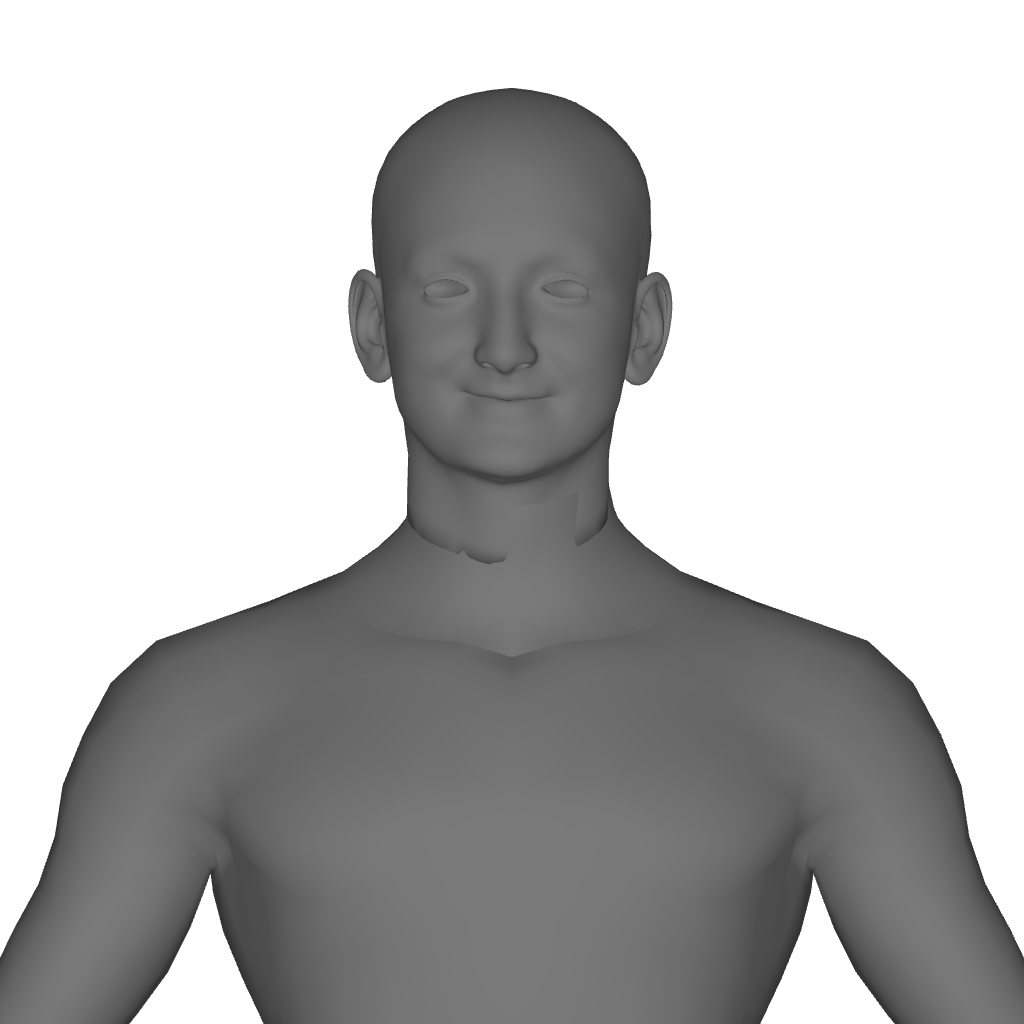
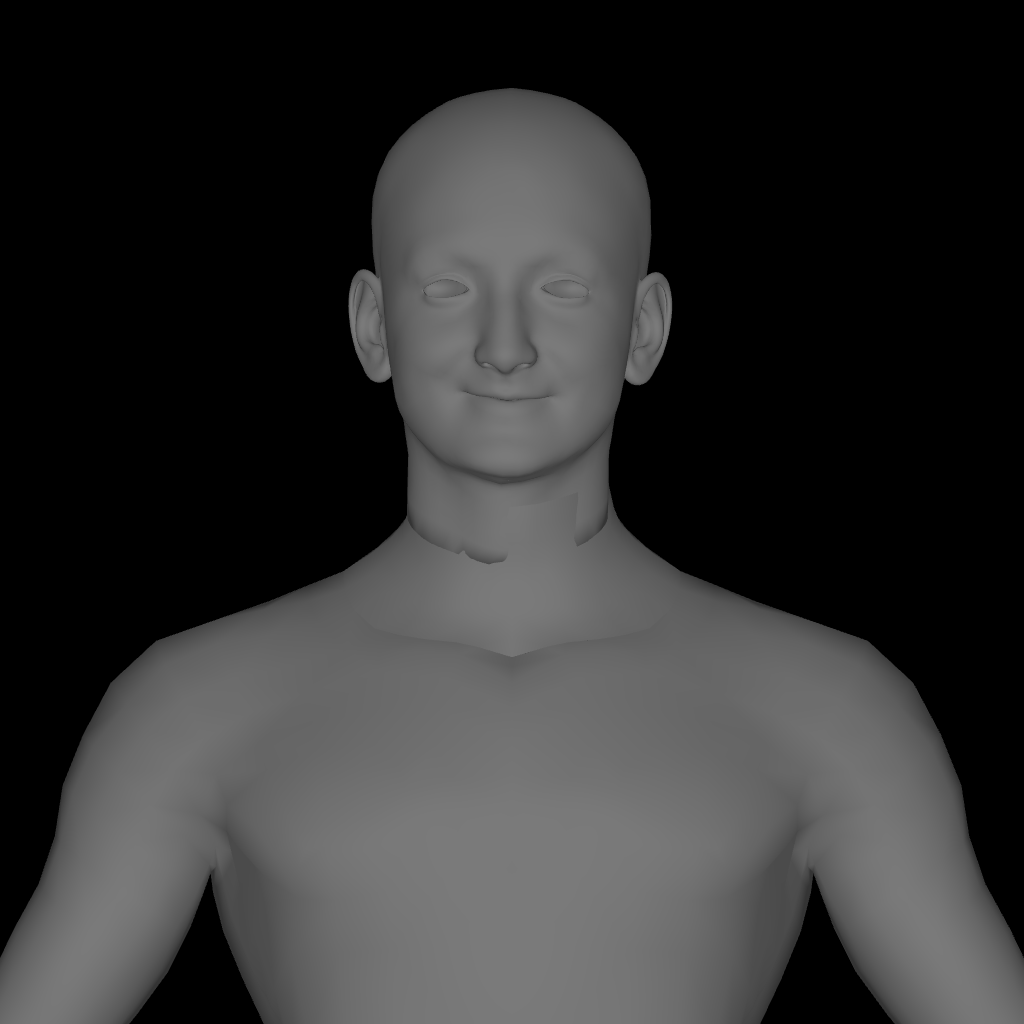
修改flip bug

diff --git a/Code/Tools/utils.py b/Code/Tools/utils.py
@@ -82,7 +82,7 @@ def get_image(d,flip=False,image_size=256,mode='Ori_conf',blur=False,no_use_dept
 
     if mode=='Ori':#方向图，只要1,2通道
         if blur:
-            ori = os.path.join(d, 'Ori.png').replace("\\", "/")
+            ori = os.path.join(d, 'Ori2.png').replace("\\", "/")
         else:
             ori=os.path.join(d,'disA.png').replace("\\", "/")
     oriImg=cv2.imread(ori)
@@ -92,7 +92,7 @@ def get_image(d,flip=False,image_size=256,mode='Ori_conf',blur=False,no_use_dept
     else:
         oriData = oriImg[:, :, [2, 1]].astype(np.float32) / 255.0  # R AND G
     # print(np.min(oriData[:,2:3]))
-    index=np.where(oriData[:,0:1]<0.2,np.zeros_like(oriData[:,2:3]),np.ones_like(oriData[:,2:3]))
+    index=np.where(oriData[:,:,0:1]<0.2,np.zeros_like(oriData[:,2:3]),np.ones_like(oriData[:,2:3]))
     oriData=(oriData-0.5)*2
 
     if flip:
@@ -108,7 +108,7 @@ def get_image(d,flip=False,image_size=256,mode='Ori_conf',blur=False,no_use_dept
     oriData=(oriData+1)/2
 
     if flip:
-        oriData=oriData*mask[:,:,0:1]*index
+        oriData=oriData*mask[:,:,0:1]#*index
 
 
     if no_use_depth is False:
@@ -1408,11 +1408,11 @@ def get_luminance_map(dir,flip,image_size,no_use_bust=False):
     return img_L[0]
 
 
-def get_Bust(dir,image,image_size):
+def get_Bust(dir,image,image_size,flip=False):
 
     label_path = os.path.join(dir, 'mask.png')
     Bust_path=dir.split('data')[0]
-    Bust_path=os.path.join(Bust_path,'data/Bust')
+    Bust_path=os.path.join(Bust_path,'data/HairStrand/Bust')
     ### use bust with different size to adapt different faces
     # if os.path.exists(os.path.join(dir,'trans.txt')):
 
@@ -1444,23 +1444,26 @@ def get_Bust(dir,image,image_size):
 
     # Bust_path = os.path.join(dir, 'color.png')
 
-    label = Image.open(label_path)
+    # label = Image.open(label_path)
     Bust = Image.open(Bust_path)
     transform_list = []
     transform_list += [transforms.Resize((image_size, image_size))]
     transform_list += [transforms.ToTensor()]
     transform_image = transforms.Compose(transform_list)
-    label = transform_image(label)
+    # label = transform_image(label)
     Bust = transform_image(Bust)
-    label = label[0:3]
-    label[label >= 0.0039] = 1
-    label[label < 0.0039] = 0
-
+    if flip:
+        Bust = torch.flip(Bust,dims=[2])
+    # label = label[0:3]
+    # label[label >= 0.0039] = 1
+    # label[label < 0.0039] = 0
+    # save_image(Bust,'Bust.png')
 
     image = torch.unsqueeze(image, 0)#方向图
-    label = torch.unsqueeze(label, 0)#mask
-    # label=torch.norm(image,2,dim=1,keepdim=True)
-    # label[label >0]=1
+    # label = torch.unsqueeze(label, 0)#mask
+    label=torch.norm(image,2,dim=1,keepdim=True)
+    label[label >0]=1
+    label = torch.unsqueeze(label, 0)
     # label=label.repeat(1,2,1,1)
     # label=torch.where(image[:,0:2,...]!=0,torch.ones_like(image[:,0:2,...]),torch.zeros_like(image[:,0:2,...]))
     Bust = torch.unsqueeze(Bust, 0)#人体渲染图

diff --git a/get_bust.py b/get_bust.py
@@ -13,7 +13,7 @@ def render(tri_sence, preview_file="", bOrtho=False, intensity=2, matrix=[]):
     ])
     camera_pose = camera_pose_base
     tri_geometry = tri_sence
-    scene = pyrender.Scene(ambient_light=[0.1, 0.1, 0.1])
+    scene = pyrender.Scene(ambient_light=[0.1, 0.1, 0.1],bg_color=[0,0,0])
     bGlasses = False
     mesh = tri_sence
 
@@ -38,8 +38,6 @@ def render(tri_sence, preview_file="", bOrtho=False, intensity=2, matrix=[]):
         pc = pyrender.PerspectiveCamera(yfov=13.3493 * np.pi / 180, aspectRatio=15/13.3493, znear=0.01,zfar=20)
     print(pc.get_projection_matrix())
     scene.add(pc, pose=camera_pose)
-    x=pc.get_projection_matrix()
-    y=scene.main_camera_node.matrix
     color, depth = r.render(scene, flags=flags)
     matrix.append(np.dot(pc.get_projection_matrix(), np.linalg.inv(scene.main_camera_node.matrix)))
     img = cv2.cvtColor(color, cv2.COLOR_RGBA2BGR)

diff --git a/Code/dataload/image_loader.py b/Code/dataload/image_loader.py
@@ -36,14 +36,15 @@ class image_loader(base_loader):
     def __getitem__(self, index):
         data_list={}
         file_name=self.train_corpus[index]
-        flip=False
+        x=[False,True]
+        flip=x[random.randint(0, 1)]
         image=get_image(file_name,flip,self.opt.image_size,self.opt.Ori_mode,self.opt.blur_ori,no_use_depth=True,use_gt=True,use_conf=self.opt.use_conf)
         image=torch.from_numpy(image)
         image=image.permute(2,0,1)
         Ori2D = image.clone()
 
         if not self.opt.no_use_bust:
-            image = get_Bust(file_name, image, self.opt.image_size)
+            image = get_Bust(file_name, image, self.opt.image_size,flip)
 
         data_list['image']=image
         if self.opt.use_HD:
